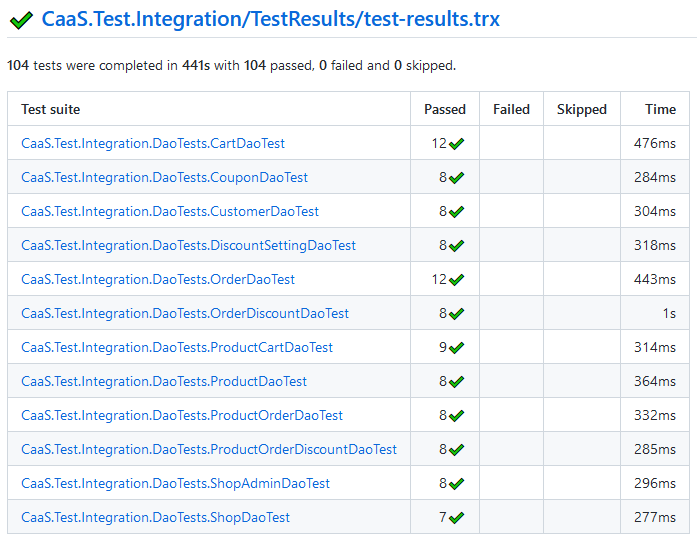
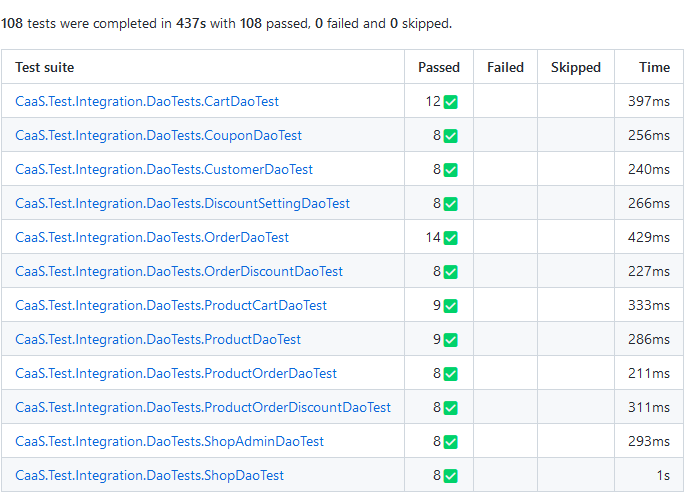
79 documentation and submission (#90)
* documentation

diff --git a/doc/documentation.md b/doc/documentation.md
@@ -1,4 +1,4 @@
-# CaaS Projektarbeit - Ausbaustufe 1
+# CaaS Projektarbeit - Ausbaustufe 1 & 2
 
 Roman Kofler-Hofer (S2010307022)
 
@@ -245,14 +245,268 @@ Mindestens 10 Kunden mit offenem Warenkorb
 
 <div style="page-break-after: always;"></div>
 
+## API
+Wir haben die API wie gefordert sehr schmal gehalten. Sämtliche Businesslogik ist an das CaaS-Core Projekt ausgelagert. 
+Der Fluss der Anfragen ist wie beschrieben folgender: API -> Service -> Repository -> Dao. 
+Die Controller haben wir nach den "Aufgabenbereichen" aufgeteilt. D.h. es gibt Controller für die Cart-Logiken, für die Customer-Logiken, für die Order-Logiken usw. Innerhalb der Bereiche gibt es - wo sinnvoll - zwei Controller. 
+Einen, der Anfragen abwickelt, die den Admin betreffen (für die man authentifiziert sein muss) sowie einen weiteren der Anfragen von Usern (ohne Registrierung) abwickelt.
+
+![structure_api_project](./assets/structure_api_project.png)
+
+Der Code zeigt einen Ausschnitt aus dem CouponAdministrationController. 
+Wie man sieht, erfolgt im Controller das Mapping von Dtos zu den tatsächlichen Datenmodellen. 
+Ansonsten werden die Anfragen nur an die jeweiligen Methoden des Services weitergeleitet.
+
+```csharp
+[HttpGet("getByCustomerId/{customerId:guid}")]
+public async Task<IEnumerable<CouponDto>> GetCouponsByCustomerId(Guid customerId, CancellationToken cancellationToken = default) {
+    var coupon = await _couponService.GetCouponsByCustomerId(customerId, cancellationToken);
+    return _mapper.Map<IEnumerable<CouponDto>>(coupon);
+}
+
+[HttpPut("{couponId:guid}")]
+public async Task<CouponDto> UpdateCoupon(Guid couponId, CouponForUpdateDto couponDto, CancellationToken cancellationToken = default) {
+    var updatedCoupon = _mapper.Map<Coupon>(couponDto);
+    var result = await _couponService.UpdateCoupon(couponId, updatedCoupon, cancellationToken);
+    return _mapper.Map<CouponDto>(result);
+}
+
+[HttpPost]
+public async Task<ActionResult> AddCoupon(CouponForCreationDto couponDto, CancellationToken cancellationToken = default) {
+    var coupon = _mapper.Map<Coupon>(couponDto);
+    var result = await _couponService.AddCoupon(coupon, cancellationToken);
+    
+    return CreatedAtAction(
+        actionName: nameof(AddCoupon),
+        routeValues: new { couponId = result.Id },
+        value: _mapper.Map<CouponDto>(result));
+}
+```
+### OpenAPI
+Alle Controller APIs werden in eine swagger.json Datei auf Basis der OpenAPI Spezifikation hinzugefügt. Mithilfe des ASP .NET
+Swashbuckle Nuget packages können die ASP .NET Metadaten ausgewertet werden, wodurch sehr viele OpenAPI Informationen automatisch
+generiert werden können. Da die Erweiterung nicht erkennt, welche möglichen Status Codes zurückgegeben werden können und es sehr
+mühsam ist, diese immer wieder anzuführen, haben wir Konventionen eingeführt. Konvention heißt, dass es nur gewisse Arten von APIs
+gibt (Get, Create, Update, Delete) die sich alle jedoch ähnlich bis gleich verhalten. Die Web-API-Konventionen die ASP .NET bereits
+zur Verfügung stellt, sind zwar bereits sehr mächtig, erfüllten jedoch nicht alle Anforderungen die wir hatten. Daher haben wir einen
+OpenAPI IOperationFilter implementiert. Swashbuckle bietet damit eine einfache Möglichkeit, die OpenAPI Generierung zu beeinflussen.
+In diesen Filtern werden unsere spezifischen Attribute sowie die standardisierten Attribute ausgewertet. Zusätzlich werden unsere definierten Konventionen in Form von OpenAPI Metadaten angewendet. Hier ein kleiner Auszug des Filters:
+```csharp
+public class CaasConventionOperationFilter : IOperationFilter {
+    ...
+    public void Apply(OpenApiOperation operation, OperationFilterContext context) {
+        var attribute = context.MethodInfo.GetAttribute<AuthorizeAttribute>();
+        if (attribute != null) {
+            AddProblemDetailsByStatusCode(StatusCodes.Status401Unauthorized, operation, context);
+            AddAppKeySecurity(operation);
+        }
+        if (ApplyReadFor(operation, context)) return;
+        if (ApplyWriteFor(operation, context)) return;
+
+        if (ApplyReadFor<HttpGetAttribute>(operation, context)) return;
+        if (ApplyWriteFor<HttpPostAttribute>(operation, context)) {
+            Replace200With201(operation);
+            return;
+        }
+        if (ApplyWriteFor<HttpDeleteAttribute>(operation, context)) return;
+        if (ApplyWriteFor<HttpPutAttribute>(operation, context)) return;
+    }
+    ...
+}
+```
+
+### Error Handling
+Um auftretende Exceptions in der API nicht als simplen Stacktrace Text zu retournieren, sondern auch diese strukturiert mit Fehlercode
+zurückzugeben haben wir uns für die RFC 7807 Problem Details for HTTP APIs Spezifikation entschieden. Bei Fehler wird hierfür ein
+definiertes JSON Objekt zurückgegeben. Da die Fehlerbehandlung im Controlller sehr repititiv sein kann, haben wir hier für eine ASP .NET 
+Middleware in Form von dem "Hellang.Middleware.ProblemDetails" nuget packages entschieden. Dies erlaubt ein sehr einfaches Mapping
+einer Exception auf bestimmte Fehlercodes und/oder HTTP Status Codes. Hier ein Auszug unseres Mappings:
+```csharp
+private static void ConfigureProblemDetails(ProblemDetailsOptions options) {
+    // log exception in development mode
+    options.ShouldLogUnhandledException = (context, _, _) 
+        => context.RequestServices.GetRequiredService<IWebHostEnvironment>().IsDevelopment();
+    options.MapToStatusCode<NotImplementedException>(StatusCodes.Status501NotImplemented);
+    options.MapToStatusCode<HttpRequestException>(StatusCodes.Status503ServiceUnavailable);
+    options.MapToStatusCode<CaasUpdateConcurrencyDbException>(StatusCodes.Status409Conflict);
+    options.MapToStatusCode<CaasItemNotFoundException>(StatusCodes.Status404NotFound);
+    options.MapToStatusCode<CaasNoTenantException>(StatusCodes.Status400BadRequest);
+
+    // Custom mapping function for ValidationException.
+    options.Map<CaasValidationException>((ctx, ex) => HandleValidationErrors(ctx, ex.Errors));
+
+    // Because exceptions are handled polymorphically, this will act as a "catch all" mapping, which is why it's added last.
+    // If an exception other than NotImplementedException and HttpRequestException is thrown, this will handle it.
+    options.MapToStatusCode<Exception>(StatusCodes.Status500InternalServerError);
+}
+```
+
+### Architektur & App-Key
+Für die App-Key Authentifizierung haben wir einen eindeutigen Key pro Shop erzeugt. Administrative API Aufrufe, müssen zusätzlich
+zur Mandanten ID, auch einen AppKey als HTTP Header mitsenden. Passt der AppKey nicht zur Mandanten ID, wird der Aufruf abgelehnt.
+Da ASP .NET bereits einen Mechanismus zur Authentifzierung bietet, haben wir die AppKey Authentifizierung auf Basis diesen Mechanismus
+implementiert. Hierfür muss ein Authentifizierungs Handler implementiert werden, in diesem Fall sieht dieser wie folgt aus:
+```csharp
+public class AppKeyAuthenticationHandler : AuthenticationHandler<AppKeyAuthenticationOptions> {
+    public AppKeyAuthenticationHandler(IOptionsMonitor<AppKeyAuthenticationOptions> options, ILoggerFactory logger,
+    UrlEncoder encoder, ISystemClock clock) : base(options, logger, encoder, clock) { }
+
+    protected override async Task<AuthenticateResult> HandleAuthenticateAsync() {
+        if (!Request.Headers.TryGetValue(HeaderConstants.AppKey, out var appKey)) {
+            return AuthenticateResult.Fail("No app-key provided");
+        }
+        var appKeyValidator = Context.RequestServices.GetRequiredService<IAppKeyValidator>();
+        if (!await appKeyValidator.ValidateAppKeyAsync(appKey)) {
+            return AuthenticateResult.Fail("Invalid app-key provided");
+        }
+        var principal = new ClaimsPrincipal(new ClaimsIdentity(null, Scheme.Name));
+        var ticket = new AuthenticationTicket(principal, null, Scheme.Name);
+        return AuthenticateResult.Success(ticket);
+    }
+}
+```
+Dies hat den Vorteil, dass für AppKey-authentifizierte Controller nur ein Attribut hinzugefügt werden:
+```csharp
+[Authorize(Policy = AppKeyAuthenticationDefaults.AuthorizationPolicy)]
+```
+Die Authentifizierung wurde auf eine eigene Policy ausgelagert, um in Zukunft auch andere Authentifizierungsmechanismen zu unterstützen (z.B. OAuth).
+
+## Geschäftslogik
+
+In diesem Abschnitt werden die Hauptkomponenten der Geschäftslogik beschrieben.
+
+### Rabattlogik
+Für die Rabatte wurden zwei interaces eingeführt, einmal die Regel:
+```csharp
+public interface IDiscountRule {
+    Task<RuleResult> Evaluate(Cart cart, CancellationToken cancellationToken = default);
+}
+```
+Diese ist dafür zuständig den Einkaufswagen auszuwerten und festzustellen ob die dazugehörige Aktion ausgeführt werden soll oder nicht.
+Das Interface für Aktionen sieht hierfür folgendermaßen aus:
+```csharp
+public interface IDiscountAction {
+    Task<Cart> ApplyDiscountAsync(Cart cart, RuleResult triggeredRule, CancellationToken cancellationToken = default);
+}
+```
+Die Regel bekommt wie beschrieben den Einkaufswagen und zusätzliche Infos der Regel, wie z.B. ob die Aktion auf den ganzen Warenkorb oder
+nur auf einzelne Artikel angewendet werden soll. Die Aktion muss dann einen neuen Warenkorb liefern (immutability) welcher dann die
+entsprechenden Aktionen berücksichtigt.
+
+Um das Entwickeln neuer Regeln und Aktionen so komfortabel wie möglich zu gestalten, haben wir uns ein System auf Basis von Dependency
+Injection überlegt. Regeln und Aktionen müssen dem System zuerst bekannt gemacht werden:
+```csharp
+services.AddDiscountRule<MinProductCountDiscountRule, MinProductCountSettings>(MinProductCountDiscountRule.Id);
+services.AddDiscountRule<TimeWindowDiscountRule, TimeWindowDiscountSettings>(TimeWindowDiscountRule.Id);
+services.AddDiscountRule<CompositeDiscountRule, CompositeDiscountRuleSettings>(CompositeDiscountRule.Id);
+services.AddDiscountAction<PercentageDiscountAction, PercentageDiscountSettings>(PercentageDiscountAction.Id);
+services.AddDiscountAction<FixedValueDiscountAction, FixedValueDiscountSettings>(FixedValueDiscountAction.Id);
+services.AddDiscountAction<AndDiscountAction, AndDiscountActionSettings>(AndDiscountAction.Id);
+```
+Jede Regel und Aktion muss eine eindeutige Guid liefern die die Regel bzw. Aktion eindeutig identifiziert.
+Außerdem muss bekannt gemacht werden durch welchen C# (CLR) Typ die Regel oder Aktion konfiguriert werden kann.
+Dadurch kann vom Fontend auch abgefragt werden, welche Einstellungsmöglichkeiten für welche Aktion/Regel zur Verfügung stehen
+und durch welche Typen die jeweiligen Einstellungen repräsentiert werden (int, double, string, bool, ...).
+Durch die Registierung stehen all diese Metadaten zur Verfügung. Da jedoch die Regeln und Aktionen dynamisch mit unterschiedlichen
+Einstellungen erstellt werden können, stehen die konkreten Instanzen einer Regel bzw. Aktion zur Laufzeit nicht zur verfügung.
+Zur Verfügung steht lediglich die Logik, sowie der Datentyp für die Einstellungen. Wenn im Frontend Regeln bzw. Aktionen erstellt
+werden, werden diese im Backend zuerst validiert und danach in die Datenbank eingetragen. Da die Einstellungen der jeweiligen Regeln
+und Aktionen sehr unterschiedlich sein können und das Hinzufügen von neuen Regeln und Aktionen zu keiner Datenbankschema-Änderung
+führen soll, werden diese in Form von JSON bzw. BSON (Binary JSON) eingetragen. Die Verknüpfung zur jeweiligen Logik findet 
+über die vorher erwähnten IDs statt.
+Wenn ein Einkaufwagen auf Rabatte überprüft werden soll, werden alle in der Datenbank vorhandenen Rabatte abgerufen und aus den
+jeweiligen JSON Einstellungen konkrete C# Objektinstanzen erzeugt. Anhand der verknüpften IDs von Regel und Aktionen kann die
+C# Klasse ausfindig gemacht werden die die entsprechende Logik enthält. Diese Klassen werden dann mithilfe von Reflection erstellt
+und auch die zur Klasse gehörende konkrete Einstellungsklasse wird injiziert. Es besteht keine Restriktion, welche Klassen in den
+Konstruktoren der Logik aufgeführt werden dürfen, solange es sich entweder um eine Einstellungsklasse oder um Klassen im 
+Dependency Injection Container handelt. Dies könnte dann wie folgt aussehen:
+```csharp
+public class TimeWindowDiscountRule : IDiscountRule {
+    public static readonly Guid Id = new Guid("0F4E0B04-E32B-4897-804C-92F858468D8A");
+
+    private readonly TimeWindowDiscountSettings _settings;
+    private readonly ISystemClock _timeProvider;
+
+    public TimeWindowDiscountRule(IDiscountOptions<TimeWindowDiscountSettings> settings, ISystemClock timeProvider) {
+        _timeProvider = timeProvider;
+        _settings = settings.Value;
+    }
+    ...
+}
+```
+Durch diese Mechanismus fühlen sich .NET Entwickler gut aufgehoben, da sehr viele Mechanismen (wie z.B. Controller in ASP .NET) so
+funktionieren. Die Implementierung beschränkt sich dadurch auf nur sehr wenige Zeilen Code und der Großteil der Arbeit wird vom Framework
+abgenommen.
+
+Die konkreten Regeln und Aktionen wurden wie folgt abgebildet:
+
+Um möglichst flexibel zu sein und Kombinationen von verschiedenen Regeln zu erlauben, haben wir die sogenannte CompositeRule eingeführt. Innerhalb dieser ist es wiederrum möglich verschiedene Regeln unter Berücksichtigung einer bestimmten Verknüpfung (und/oder) zu kombinieren. Die Regeln auf Einzelebene sind die TimeWindowDiscountRule sowie die MinProductCountDiscountRule. Sofern ein Cart im definierten Zeitraum existiert, wird die TimeWindowDiscountRule angewendet. Damit die MinProductCountRule zieht, muss von einem bestimmten Produkt eine Mindestbestellmenge im Cart liegen.
+
+Hinsichtlich der auszuführenden Actions habe wir eine AndDiscountAction eingeführt, die es erlaubt, einzelne Aktionen zu kombinieren. Die einzelnen Actions sind die PercentageDiscountAction sowie die FixedValueDiscountAction. Wie der Name schon sagt, wird entweder ein prozentueller oder ein fixer Betrag abgezogen, falls eine Regel die Aktion triggered.
+
+### Bezahlsystem
+
+Für das Bezahlsystem wurde eine Third-Party-Applikation nachgemacht ("gemocked"). Die Applikation haben wir SwKo.Pay benannt. Die Schnittstellendefinition der Anwendung findet sich im Projekt SwKo.Pay.Api. Wir haben versucht uns bei dem Design etwas an dem populären Bezahldienst "stripe" zu orientieren. Grundsätzlich werden von dem Service 3 Methoden angeboten.
+
+```csharp
+public interface IPaymentService {
+    
+    Task<Guid> RegisterPayment(Customer customer, decimal amount, Currency currency);
+    
+    Task ConfirmPayment(Guid paymentId);
+    
+    Task RefundPayment(Guid paymentId);
+
+}
+```
+
+* RegisterPayment -> jede Zahlung muss zuerst "angemeldet" werden
+* Confirm Payment ->  Wenn auf Seiten der zugreifenden Geschäftslogik keine Fehler aufgetreten sind, kann die Zahlung bestätigt werden. Erst dann wird der Betrag abgebucht
+* RefundPayment -> Zahlungen die erst registriert wurden aber noch nicht bestätigt sind, können so rückgängig gemacht werden.
+
+Wie bei stripe auch gibt es verschiedene Datenobjekte. Z.B. einen SwKo.Pay Customer (nicht zu verwechseln mit einem Customer aus dem CaaS Projekt). Ein SwKo.Pay Customer kann Metadaten enthalten (Key-Value Storage) welcher z.B. die CustomerId aus CaaS beinhalten könnte. Für den Benutzer nicht sichtbar gibt es intern weitere Model-Klassen wie "Payment" oder "CreditCard". Für eine Kreditkarte ist jeweils die Nummer, der Status (aktiv oder inaktiv) sowie der aktuell verfügbare Kredit hinterlegt.
+
+Weiters gibt es verschiedene Exceptions die im Fehlerfall geschmissen werden. Z.B. wird überprüft ob die Kreditkartennummer valide ist. Diese Prüfung erfolgt über einfaches Patternmatching und sollte in der Praxis natürlich anders gelöst werden. Weitere Fehlerfälle können sein, dass die Kreditkarte nicht mehr aktiv ist (z.B. gestohlen gemeldet) oder der verfügbare Kredit nicht für die zu bezahlende Summe ausreicht.
+
+Die Implementierung des Services ist wie verlangt nur gemocked. Das heißt, im Speicher sind hardcoded Kreditkarten hinterlegt. Damit in CaaS-Projekt Zahlungen erfolgreich sind, sollte man also die hier zuletzt aufgeführte Kreditkarte verwenden.
+
+```csharp
+//Invalid card number
+CreditCardsDict.Add("9999999999999999", new CreditCard(){CreditCardNumber = "9999999999999999", Active = true, Credit = (decimal)500.10});
+
+//Valid card but inactive (e.g. because lost or expired)
+CreditCardsDict.Add("4594233824721535", new CreditCard(){CreditCardNumber = "4594233824721535", Active = false, Credit = (decimal)487.94});
+
+//Valid, active card with little credit
+CreditCardsDict.Add("5349801875979163", new CreditCard(){CreditCardNumber = "5349801875979163", Active = true, Credit = (decimal)2.20});
+
+//Valid, active card with large credit
+CreditCardsDict.Add("4405100664466647", new CreditCard(){CreditCardNumber = "4405100664466647", Active = true, Credit = (decimal)10000.00});
+```
+Zur Simulation, dass eine Zahlung länger dauern kann, wurde in der Methode RegisterPayment ein Task Delay von 2 Sekunden eingebaut.
+
+#### Verwendung von SwKo.Pay im CaaS Projekt
+Im OrderService gibt es die Methode CreateOrderFromCart. Wie der Name bereits sagt, wird dabei ein Cart in eine Order überführt. Im Zuge dieses Methodenaufrufs wird auf den PaymentService SwKo zugegriffen. Es wird eine Zahlung über die Summe des Carts registriert. Dann werden in einer Transaktion alle DB-Operationen ausgeführt, die für die Überführung eines Carts in eine Order benötigt werden. Sofern keine CaaS-Exception geworfen wird, wird die Zahlung bestätigt. Falls eine CaaS-Exception geworfen wird, wird im Catch-Block RefundPayment aufgerufen. Mögliche SwKo.Pay-Exceptions werden auf CaaS-Exceptions gemapped.
+
+### Statistikservice
+Der Statistikservice liefert Statistiken zum meistverkauften Produkt sowie Summen und Durchschnittswerte von Bestellungen und Einkaufskörben in einem bestimmten Zeitraum. Teilweise kann auch ausgewählt werden, wonach aggregiert werden soll (Tag, Monat oder Jahr). Das kann im Frontend für Zeitreihenanalysen relevant sein.
+
+Wir haben uns dazu entschieden, die Abfragen direkt auf der Datenbank zu machen. D.h. wir erhalten bereits das gewünschte Ergebnis fertig aufbereitet und aggregiert von der Datenbankabfrage zurück. Der Vorteil davon ist, dass keine großen Datenmengen in den Speicher geladen werden müssen. Außerdem ersparen wir uns dann möglicherweise mehrmaliges Iterieren über die Daten im Backend. Der Nachteil ist, dass wir eventuell etwas unflexibler sind, da die Daten eben genau in einer bestimmten Form geliefert werden. D.h. für jede konkrete Anforderung benötigt es eine DB-Anfrage (auch einer Methode und u.U einen bestimmten Rückgabetyp)
+
 ## Testing
 
 Die Datenzugriffsschicht testen wir mittels Integration-Tests. Vor jedem Test wird dazu ein Container (mit Testcontainers for .NET) hochgefahren und darin wird eine Datenbank mit Testdaten instanziert. Dadurch können wir die DAOs mit einem echten Datenbankzugriff testen.
 
 ![integration_tests](./assets/integration_tests_dal.png)
 
-Bereits bestehende Unit-Tests betreffen eher die Businesslogik (Services, Repositories) und werden auf Basis von in-memory Testdaten durchgeführt.
+Repositories und Services haben wir auf Basis von Unit-Tests getestet. Die Daos mocken wir mittels einer selbst implementierten MemoryDao Klasse weg (diese implementiert das IDao Interface).
 
+![unit_tests](./assets/unit_tests.png)
+
+Die Tests decken einen Großteil des Infrastructure (Implementierung der Repositories und Services) und des Core Projekts (Interfaces, Domainmodels etc.) ab. Wie man in den Screenshots sieht liegt die Testabdeckung bei den einzelnen Aggregaten (Shop, Cart, Customer,...) bei ca. 90%. Insgesamt liegt die Testabdeckung für diese Projekt bei einem geringeren Anteil weil Codestücke wie Automapper, Dependency Injection usw. gibt, die von den Tests nicht abgedeckt sind.
+
+![test_coverage_infra](./assets/test_coverage_infrastructure.png)
+![test_coverage_infra](./assets/test_coverage_core.png)
 
 ## Entwicklung im Team
 Wie in der Angabe gefordert haben wir Maßnahmen gesetzt, um die Entwicklung im Team zu vereinfachen. Eine der Maßnahmen war es Tickets für einzelne Arbeitspakete zu erstellen, die dann einem Teammitglied zugeteilt wurden. Über das Kanban-Board in GitHub konnte so der Fortschritt der einzelnen Tickets verfolgt werden.
@@ -264,3 +518,8 @@ Für einzelne Tickets wurden im Regelfall Branches erstellt, welche wieder in Ma
 Für automatische Builds haben wir zwei Workflows definiert. Einer baut ein .NET Projekt der andere baut ein Docker-Image welches dann zur einfachen Verteilung unserer Lösung verwendet werden kann.
 
 <div style="page-break-after: always;"></div>
+
+## Verteilung des Systems
+Die Anwendung sowie die Datenbank haben wir mittels Docker Compose dockerisiert. Sobald die Container hochgefahren werden, ist die Anwendung samt DB und befüllten Testdaten (würde man in der Realität nicht machen) verfügbar.
+
+
